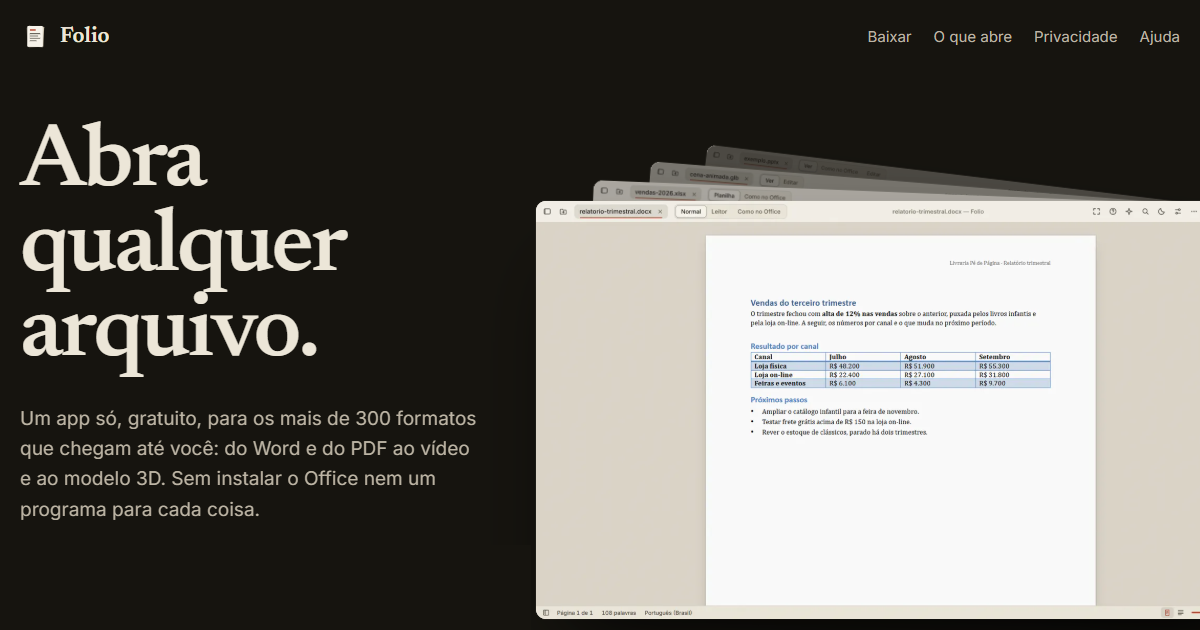
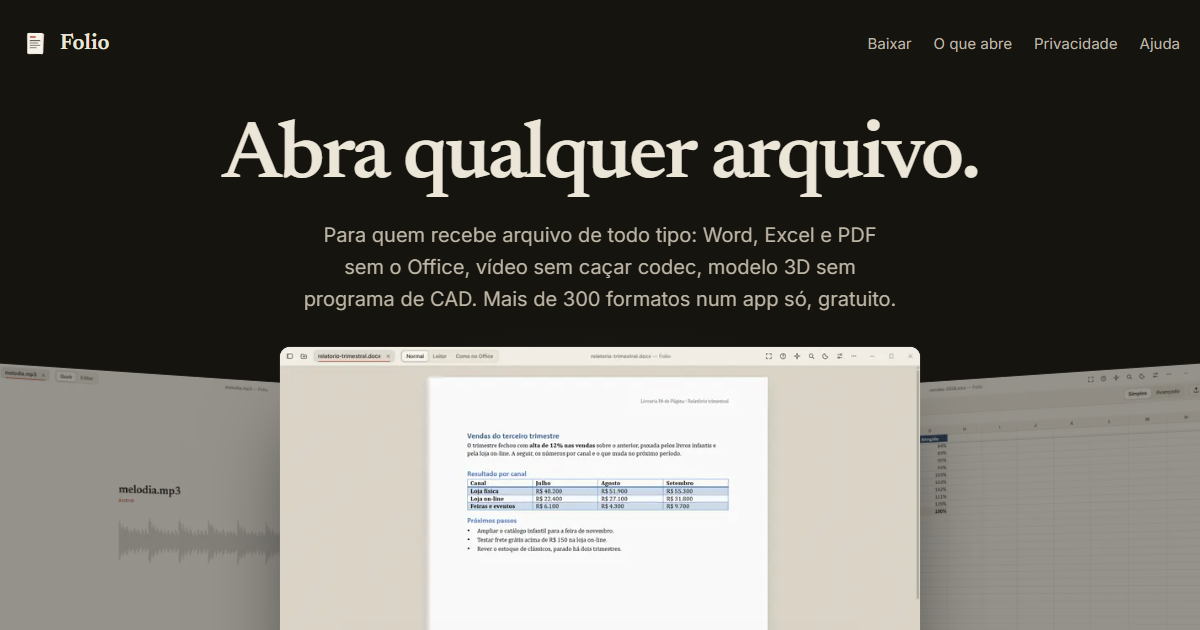
Página de download atualizada

diff --git a/site.js b/site.js
@@ -81,15 +81,17 @@
     }
   }
 
-  // Barra de download: aparece quando o botão do topo sai da tela e some na seção de download
-  var barra = $('barra'), topoFora = false, naSecao = false;
+  // Barra de download: aparece quando o botão do topo sai da tela e some na seção de download e no rodapé
+  // (perto do fim ela cobriria os links de privacidade e termos)
+  var barra = $('barra'), topoFora = false, naSecao = false, noRodape = false;
   var mostrarBarra = function () {
-    var ver = topoFora && !naSecao && !document.body.classList.contains('mobile');
+    var ver = topoFora && !naSecao && !noRodape && !document.body.classList.contains('mobile');
     barra.classList.toggle('visivel', ver);
     if (ver) { barra.removeAttribute('aria-hidden'); barra.inert = false; } else { barra.setAttribute('aria-hidden', 'true'); barra.inert = true; }
   };
   new IntersectionObserver(function (e) { topoFora = !e[0].isIntersecting && e[0].boundingClientRect.top < 0; mostrarBarra(); }).observe($('principal'));
   new IntersectionObserver(function (e) { naSecao = e[0].isIntersecting; mostrarBarra(); }, { threshold: 0.15 }).observe($('baixar'));
+  new IntersectionObserver(function (e) { noRodape = e[0].isIntersecting; mostrarBarra(); }, { rootMargin: '0px 0px 120px 0px' }).observe(document.querySelector('footer'));
 
   // Passeio: a etapa no meio da tela troca o arquivo do palco; o palco se endireita ao entrar
   var passos = [].slice.call(document.querySelectorAll('.passo')), telas = [].slice.call(document.querySelectorAll('#tela > *')), tela = $('tela'), atual = 0;
